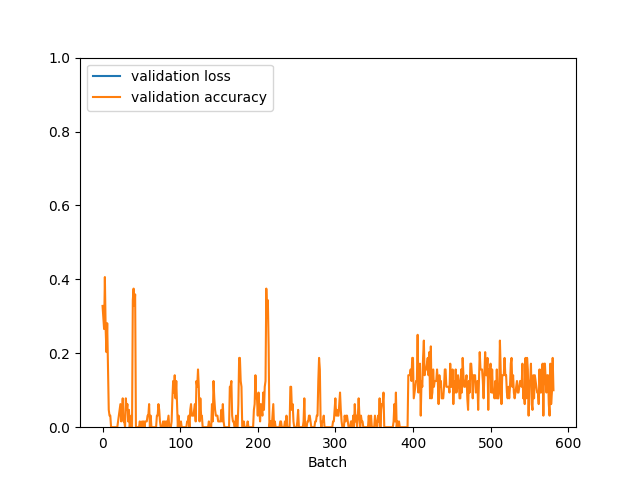
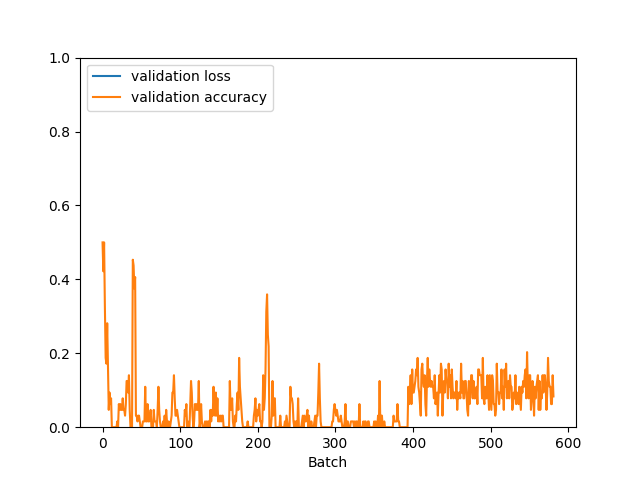
more training, smaller model, java deployment skeleton

Changed region(s): [[0.1562, 0.6875, 0.875, 0.9062], [0.1562, 0.5, 0.2188, 0.6875], [0.4062, 0.5938, 0.4375, 0.7188]]

diff --git a/deep_learning/model.py b/deep_learning/model.py
@@ -23,9 +23,9 @@ class FoodClassifier(nn.Module):
     self.dropout = nn.Dropout(0.5)
 
     # Fully Connected Layers (Classifier)
-    self.fc1 = nn.Linear(256 * 12 * 12, 512)
-    self.bn1 = nn.BatchNorm1d(num_features=512)
-    self.fc2 = nn.Linear(512, self.n_classes)
+    self.fc1 = nn.Linear(256 * 12 * 12, 128)
+    self.bn1 = nn.BatchNorm1d(num_features=128)
+    self.fc2 = nn.Linear(128, self.n_classes)
 
   def forward(self, x):
     x = self.pool(F.relu(self.conv2_bn1(self.conv1(x))))

diff --git a/deep_learning/train.py b/deep_learning/train.py
@@ -8,7 +8,7 @@ from util import *
 def train(model, images, labels, classes):
   model.train()
   loss_function = nn.CrossEntropyLoss()
-  optim = torch.optim.Adam(model.parameters(), lr=0.0001)
+  optim = torch.optim.Adam(model.parameters(), lr=0.0001, weight_decay=1e-5)
 
   losses, accuracies = [], []
   BS = 64

diff --git a/deep_learning/model.java b/deep_learning/model.java
@@ -1,0 +1,22 @@
+import org.pytorch.IValue;
+import org.pytorch.Module;
+import org.pytorch.Tensor;
+
+import java.util.Arrays;
+
+class Model{
+
+  public static void main(){
+
+  }
+
+  public boolean load_classes(){
+
+  }
+
+  public boolean load_model(){
+
+  }
+
+}
+
